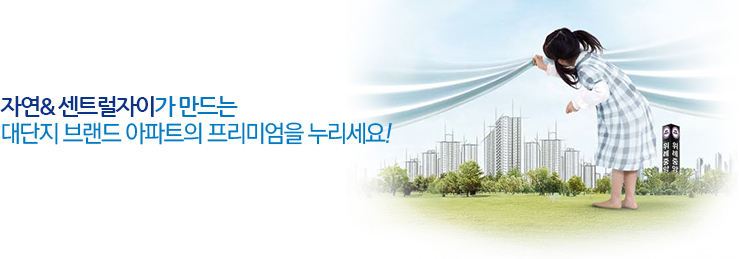
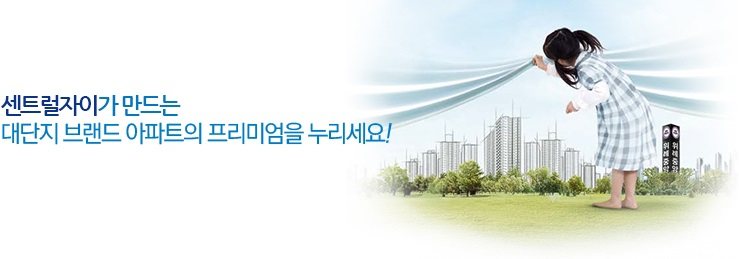
name changed

Changed region(s): [[0.0, 0.3707, 0.5291, 0.556]]

diff --git a/register/regist.html b/register/regist.html
@@ -7,11 +7,11 @@
 <script type="text/javascript" src="/js/design.js"></script>
 <link rel="stylesheet" type="text/css" href="/css/nanumgothic.css" media="all"/>
 <link rel="stylesheet" href="/css/common.css">
-<title>자연앤 센트럴자이</title>
+<title>센트럴자이</title>
 </head>
 <body>
 <div class="head">
-	<h1><a href="/index.html"><img src="/images/h1_wj_logo.gif" alt="자연앤 센트럴자이"/></a></h1>
+	<h1><a href="/index.html"><img src="/images/h1_wj_logo.gif" alt="센트럴자이"/></a></h1>
 	<div class="top_util">
 		<a href="/register/regist.html"><img src="/images/btn_top_reg.gif" alt="관심고객등록"/></a>
 		<img src="/images/top_contact.gif" alt="연락처"/>
@@ -107,7 +107,7 @@
 		</div><!-- end title -->
 		<div class="content">
 
-<!-- 자연& 센트럴자이 -->
+<!-- 센트럴자이 -->
 <script type="text/javascript">
 <!--
 //*********************************START ACTION**************************************
@@ -202,15 +202,15 @@ div.iframe_body {
 }
 </style>
 
-<h1 style="display: none;">자연앤</h1>
+<h1 style="display: none;">센트럴자이</h1>
 <h2 style="display: none;">관심고객등록</h2>
 <div class="regist">
 	<h3>개인정보취급방침</h3>
 	<div class="iframe_body">
 		<div class="summary">
 			<p>경기도시공사는 정보통신망 이용촉진 및 정보보호 등에 관한 법률, 개인정보보호법 등 준수하여야 할 관련 법규상의 개인정보보호 규정을 준수하며, 개인정보보호법 제30조, 정보통신망이용촉진 및 정보보호에 관한 법률 제27조의2에 따라 고객의 개인정보 보호 및 권익을 보호하고 개인정보와 관련한 고객의 고충을 원활하게 처리할 수 있도록 다음과 같은 처리방침을 제정하고 이를 준수하고 있습니다.</p>
-			<p>경기도시공사는 개인정보처리방침을 개정하는 경우 위례 자연앤 센트럴 자이 공지사항을 통하여 공지(또는 개별공지)할 것입니다.</p>
-			<p>고객님께서는 경기도시공사 위례 자연앤 센트럴 자이 홈페이지 방문 시 수시로 개인정보처리방침을 확인해 주시길 바랍니다.</p>
+			<p>경기도시공사는 개인정보처리방침을 개정하는 경우 위례 센트럴 자이 공지사항을 통하여 공지(또는 개별공지)할 것입니다.</p>
+			<p>고객님께서는 경기도시공사 위례 센트럴 자이 홈페이지 방문 시 수시로 개인정보처리방침을 확인해 주시길 바랍니다.</p>
 			<p>고객님은 개인정보의 수집, 이용, 제공, 위탁 등(이하 "처리"라 합니다.)과 관련한 아래 사항에 대하여 원하지 않는 경우 동의를 거부할 수 있습니다. 다만, 고객님이 동의를 거부하는 경우 서비스의 전부 또는 일부를 이용할 수 없음을 알려드립니다.</p>
 			<p>경기도시공사의 개인정보처리방침은 다음과 같은 내용을 담고 있습니다.</p>
 			<p>본 방침은 2012 년 1월 1일부터 시행됩니다.</p>
@@ -232,7 +232,7 @@ div.iframe_body {
 				<div class="indent">
 					<p>가. 회사는 회원가입, 원활한 고객상담, 각종 서비스의 제공을 위해 최초 회원가입 당시 아래와 같은 개인정보를 수집하고 있습니다.</p>
 					<dl>
-						<dt>1)위례 자연앤 센트럴 자이 관심고객 등록</dt>
+						<dt>1)위례 센트럴 자이 관심고객 등록</dt>
 						<dd>필수정보 : 성명, 휴대번호, 이메일계정, 주소 , 설문내용</dd>
 						<dt>2)분양 계약서 </dt>
 						<dd>필수정보 : 이름, 자택 전화번호, 휴대폰 전화번호, 주소, 주민등록번호, 계약 아파트명, 계약 아파트 동호수, 총 분양대금, 계약일, 분양대금 납부내역 등</dd>
@@ -372,7 +372,7 @@ div.iframe_body {
 		<input type="radio" name="hAGREE1" class="type-radio" value="N"/> 동의하지 않음
 	</div><!-- end agree_radio -->
 
-	<h3>관심고객이 되시면 위례자연앤센트럴자이 진행사항을 안내해 드립니다.</h3>
+	<h3>관심고객이 되시면 위례센트럴자이 진행사항을 안내해 드립니다.</h3>
 	<div class="reg_table">
 		<table summary="">
 		<caption></caption>
@@ -445,14 +445,14 @@ div.iframe_body {
 					<li><input type="radio" class="type-radio" name="Q_2" value="기타"/> 기타</li>
 				</ul>
 			</dd>
-			<dt>3. 위례 A2-2BL 자연앤 센트럴 자이의 청약자격은 "무주택 세대주"입니다. 귀하는 현재 무주택 세대주입니까?</dt>
+			<dt>3. 위례 A2-2BL 센트럴 자이의 청약자격은 "무주택 세대주"입니다. 귀하는 현재 무주택 세대주입니까?</dt>
 			<dd>
 				<ul>
 					<li><input type="radio" class="type-radio" name="Q_3" value="예"/> 예</li>
 					<li><input type="radio" class="type-radio" name="Q_3" value="아니요"/> 아니요</li>
 				</ul>
 			</dd>
-			<dt>4. 위례 A2-2BL 자연앤 센트럴 자이의 청약이 가능한 통장은 청약저축과 청약종합저축 입니다. 귀하가 보유하고 있는 통장의 종류는 무엇입니까?</dt>
+			<dt>4. 위례 A2-2BL 센트럴 자이의 청약이 가능한 통장은 청약저축과 청약종합저축 입니다. 귀하가 보유하고 있는 통장의 종류는 무엇입니까?</dt>
 			<dd>
 				<ul>
 					<li><input type="radio" class="type-radio" name="Q_4" value="청약저축"/> 청약저축</li>
@@ -493,7 +493,7 @@ div.iframe_body {
 					<li><input type="checkbox" class="type-radio" name="Q_7" value="84타입(구33평형)"/> 84타입(구33평형)</li>
 				</ul>
 			</dd>
-			<dt>8. 위례신도시 A2-2BL 자연앤센트럴자이 외 경기도시공사에서 분양하는 분양관련 정보를 핸드폰문자(SMS) 수신하는 것에 동의하십니까?</dt>
+			<dt>8. 위례신도시 A2-2BL 센트럴자이 외 경기도시공사에서 분양하는 분양관련 정보를 핸드폰문자(SMS) 수신하는 것에 동의하십니까?</dt>
 			<dd>
 				<ul>
 					<li><input type="radio" class="type-radio" name="Q_8" value="예"/> 예</li>

diff --git a/register/notice_list.html b/register/notice_list.html
@@ -7,11 +7,11 @@
 <script type="text/javascript" src="/js/design.js"></script>
 <link rel="stylesheet" type="text/css" href="/css/nanumgothic.css" media="all"/>
 <link rel="stylesheet" href="/css/common.css">
-<title>자연앤 센트럴자이</title>
+<title>센트럴자이</title>
 </head>
 <body>
 <div class="head">
-	<h1><a href="/index.html"><img src="/images/h1_wj_logo.gif" alt="자연앤 센트럴자이"/></a></h1>
+	<h1><a href="/index.html"><img src="/images/h1_wj_logo.gif" alt="센트럴자이"/></a></h1>
 	<div class="top_util">
 		<a href="/register/regist.html"><img src="/images/btn_top_reg.gif" alt="관심고객등록"/></a>
 		<img src="/images/top_contact.gif" alt="연락처"/>
@@ -107,7 +107,7 @@
 		</div><!-- end title -->
 		<div class="content">
 
-<!-- 자연& 센트럴자이 -->
+<!-- 센트럴자이 -->
 	<div class="notice_list">
 		<table summary="">
 		<caption></caption>
@@ -176,7 +176,7 @@
 
           <tr>
               <td class="num">3</td>
-              <td class="subj"><a title="상세보기">자연앤 센트럴 자이 당첨 하한선입니다.</a></td>
+              <td class="subj"><a title="상세보기">센트럴 자이 당첨 하한선입니다.</a></td>
               <td class="date">2014-11-25</td>
               <td class="count">1271</td>
           </tr>
@@ -187,7 +187,7 @@
 
           <tr>
               <td class="num">2</td>
-              <td class="subj"><a title="상세보기">자연앤 센트럴 자이 일반공급 경쟁률입니다.</a></td>
+              <td class="subj"><a title="상세보기">센트럴 자이 일반공급 경쟁률입니다.</a></td>
               <td class="date">2014-11-20</td>
               <td class="count">1534</td>
           </tr>
@@ -198,7 +198,7 @@
 
           <tr>
               <td class="num">1</td>
-              <td class="subj"><a title="상세보기">자연앤 센트럴 자이 특별공급 경쟁률입니다.</a></td>
+              <td class="subj"><a title="상세보기">센트럴 자이 특별공급 경쟁률입니다.</a></td>
               <td class="date">2014-11-20</td>
               <td class="count">508</td>
           </tr>

diff --git a/business/feature.html b/business/feature.html
@@ -7,11 +7,11 @@
 <script type="text/javascript" src="/js/design.js"></script>
 <link rel="stylesheet" type="text/css" href="/css/nanumgothic.css" media="all"/>
 <link rel="stylesheet" href="/css/common.css">
-<title>자연앤 센트럴자이</title>
+<title>센트럴자이</title>
 </head>
 <body>
 <div class="head">
-	<h1><a href="/index.html"><img src="/images/h1_wj_logo.gif" alt="자연앤 센트럴자이"/></a></h1>
+	<h1><a href="/index.html"><img src="/images/h1_wj_logo.gif" alt="센트럴자이"/></a></h1>
 	<div class="top_util">
 		<a href="/register/regist.html"><img src="/images/btn_top_reg.gif" alt="관심고객등록"/></a>
 		<img src="/images/top_contact.gif" alt="연락처"/>
@@ -106,8 +106,8 @@
 		</div><!-- end title -->
 		<div class="content">
 
-<!-- 자연& 센트럴자이 -->
-<p><img src="/images/wj_feature_img.jpg" alt="자연앤 센트럴자이의 뛰어난 제품가치, 1413세대 대단지 랜드마크 설계, 휴먼링 내 희소한 중소형 평면의 대단지 아파트로 살수록 큰 자부심을 선사합니다, 대규모의 커뮤니티 시설, 휘트니스클럽, 골프연습장, 게스트하우스, 사우나 등으로 풍요로운 여가를 누립니다, 넓은 주차구획선, 넓게 확보된 주차공간으로 편리한 주차는 물론 승하차도 여유로워집니다"/></p>
+<!-- 센트럴자이 -->
+<p><img src="/images/wj_feature_img.jpg" alt="센트럴자이의 뛰어난 제품가치, 1413세대 대단지 랜드마크 설계, 휴먼링 내 희소한 중소형 평면의 대단지 아파트로 살수록 큰 자부심을 선사합니다, 대규모의 커뮤니티 시설, 휘트니스클럽, 골프연습장, 게스트하우스, 사우나 등으로 풍요로운 여가를 누립니다, 넓은 주차구획선, 넓게 확보된 주차공간으로 편리한 주차는 물론 승하차도 여유로워집니다"/></p>
 
 		</div><!-- end content -->
 	</div><!-- end body -->

diff --git a/business/environment.html b/business/environment.html
@@ -7,11 +7,11 @@
 <script type="text/javascript" src="/js/design.js"></script>
 <link rel="stylesheet" type="text/css" href="/css/nanumgothic.css" media="all"/>
 <link rel="stylesheet" href="/css/common.css">
-<title>자연앤 센트럴자이</title>
+<title>센트럴자이</title>
 </head>
 <body>
 <div class="head">
-	<h1><a href="/index.html"><img src="/images/h1_wj_logo.gif" alt="자연앤 센트럴자이"/></a></h1>
+	<h1><a href="/index.html"><img src="/images/h1_wj_logo.gif" alt="센트럴자이"/></a></h1>
 	<div class="top_util">
 		<a href="/register/regist.html"><img src="/images/btn_top_reg.gif" alt="관심고객등록"/></a>
 		<img src="/images/top_contact.gif" alt="연락처"/>
@@ -106,8 +106,8 @@
 		</div><!-- end title -->
 		<div class="content">
 
-<!-- 자연& 센트럴자이 -->
-<p><img src="/images/wj_environment_img.jpg" alt="위례의 중심부터 강남생활권까지 자연앤에서 누리다, 위례중앙역으로 누리는 편리한 교통가치, 휴먼링 내에서 누리는 친환경 자연가치, 트랜짓모로가 인접한 다양한 생활가치, 단지 앞 초·중교가 예정된 교육가치"/></p>
+<!-- 센트럴자이 -->
+<p><img src="/images/wj_environment_img.jpg" alt="위례의 중심부터 강남생활권까지 자이에서 누리다, 위례중앙역으로 누리는 편리한 교통가치, 휴먼링 내에서 누리는 친환경 자연가치, 트랜짓모로가 인접한 다양한 생활가치, 단지 앞 초·중교가 예정된 교육가치"/></p>
 
 		</div><!-- end content -->
 	</div><!-- end body -->

diff --git a/business/map.html b/business/map.html
@@ -7,11 +7,11 @@
 <script type="text/javascript" src="/js/design.js"></script>
 <link rel="stylesheet" type="text/css" href="/css/nanumgothic.css" media="all"/>
 <link rel="stylesheet" href="/css/common.css">
-<title>자연앤 센트럴자이</title>
+<title>센트럴자이</title>
 </head>
 <body>
 <div class="head">
-	<h1><a href="/index.html"><img src="/images/h1_wj_logo.gif" alt="자연앤 센트럴자이"/></a></h1>
+	<h1><a href="/index.html"><img src="/images/h1_wj_logo.gif" alt="센트럴자이"/></a></h1>
 	<div class="top_util">
 		<a href="/register/regist.html"><img src="/images/btn_top_reg.gif" alt="관심고객등록"/></a>
 		<img src="/images/top_contact.gif" alt="연락처"/>
@@ -106,7 +106,7 @@
 		</div><!-- end title -->
 		<div class="content">
 
-<!-- 자연& 센트럴자이 -->
+<!-- 센트럴자이 -->
 <p><img src="/images/wj_map_img.jpg" alt="견본주택 안내, 주소 : 서울시 송파구 장지동 622-9 일원, 운영기간 : 2014.11.07(금)~2014.11.10(월) (10:00~17:00), 토, 일요일 및 공휴일 제외 (단, 신청자의 편의를 위해 14.11.08(토)~09(일)은 임시 운영함), 대중교통 안내, 지하철 이용 시, 분당선·8호선 복정역 1번 출구 150m, 버스 이용 시, 복정역 1번출구 정류장 (정류장 번호 : 24-305), 간선버스(파랑) : 302, 303, 320, 광역버스(빨강) : 1650, 9403, 경기권역 버스 : 15"/></p>
 
 		</div><!-- end content -->

diff --git a/business/overview.html b/business/overview.html
@@ -7,11 +7,11 @@
 <script type="text/javascript" src="/js/design.js"></script>
 <link rel="stylesheet" type="text/css" href="/css/nanumgothic.css" media="all"/>
 <link rel="stylesheet" href="/css/common.css">
-<title>자연앤 센트럴자이</title>
+<title>센트럴자이</title>
 </head>
 <body>
 <div class="head">
-	<h1><a href="/index.html"><img src="/images/h1_wj_logo.gif" alt="자연앤 센트럴자이"/></a></h1>
+	<h1><a href="/index.html"><img src="/images/h1_wj_logo.gif" alt="센트럴자이"/></a></h1>
 	<div class="top_util">
 		<a href="/register/regist.html"><img src="/images/btn_top_reg.gif" alt="관심고객등록"/></a>
 		<img src="/images/top_contact.gif" alt="연락처"/>
@@ -106,7 +106,7 @@
 		</div><!-- end title -->
 		<div class="content">
 
-<!-- 자연& 센트럴자이 -->
+<!-- 센트럴자이 -->
 <p><img src="/images/wj_overview_img.jpg" alt="휴먼링 내 마지막 공공분양, 메이저 브랜드, 중소형 대단지, 대지위치 위례신도시 택지개발지구 A2-2BL, 대지면적 68177㎡, 연면적 188515.69㎡, 건축규모 지하2층/지상15층(111동: 14층), 세대수 총 1413세대 (51㎡: 492세대, 59㎡A: 465세대, 59㎡B: 130세대, 74㎡: 116세대, 84㎡: 210세대)"/></p>
 
 		</div><!-- end content -->

diff --git a/register/alternate_winner.html b/register/alternate_winner.html
@@ -7,11 +7,11 @@
 <script type="text/javascript" src="/js/design.js"></script>
 <link rel="stylesheet" type="text/css" href="/css/nanumgothic.css" media="all"/>
 <link rel="stylesheet" href="/css/common.css">
-<title>자연앤 센트럴자이</title>
+<title>센트럴자이</title>
 </head>
 <body>
 <div class="head">
-	<h1><a href="/index.html"><img src="/images/h1_wj_logo.gif" alt="자연앤 센트럴자이"/></a></h1>
+	<h1><a href="/index.html"><img src="/images/h1_wj_logo.gif" alt="센트럴자이"/></a></h1>
 	<div class="top_util">
 		<a href="/register/regist.html"><img src="/images/btn_top_reg.gif" alt="관심고객등록"/></a>
 		<img src="/images/top_contact.gif" alt="연락처"/>
@@ -107,10 +107,10 @@
 		</div><!-- end title -->
 		<div class="content">
 
-<!-- 자연& 센트럴자이 -->
+<!-- 센트럴자이 -->
 <div class="alternative_winner">
 	<div class="document">
-		<h4>예비당첨자 공급(최초) 참가신청 및 서류제출 안내 (위례A2-2BL 자연앤센트럴자이)</h4>
+		<h4>예비당첨자 공급(최초) 참가신청 및 서류제출 안내 (위례A2-2BL 센트럴자이)</h4>
 		<h5>1. 예비당첨자 참가신청 및 동호배정(추첨) 안내</h5>
 		<div class="container">
 			<ul>

diff --git a/complex/eyeview.html b/complex/eyeview.html
@@ -7,11 +7,11 @@
 <script type="text/javascript" src="/js/design.js"></script>
 <link rel="stylesheet" type="text/css" href="/css/nanumgothic.css" media="all"/>
 <link rel="stylesheet" href="/css/common.css">
-<title>자연앤 센트럴자이</title>
+<title>센트럴자이</title>
 </head>
 <body>
 <div class="head">
-	<h1><a href="/index.html"><img src="/images/h1_wj_logo.gif" alt="자연앤 센트럴자이"/></a></h1>
+	<h1><a href="/index.html"><img src="/images/h1_wj_logo.gif" alt="센트럴자이"/></a></h1>
 	<div class="top_util">
 		<a href="/register/regist.html"><img src="/images/btn_top_reg.gif" alt="관심고객등록"/></a>
 		<img src="/images/top_contact.gif" alt="연락처"/>
@@ -104,7 +104,7 @@
 		</div><!-- end title -->
 		<div class="content">
 
-<!-- 자연& 센트럴자이 -->
+<!-- 센트럴자이 -->
 <div id="tab-container">
 	<div id="tabcon1" class="tabstyle"><img src="/images/wj_eyeview_img.jpg" style="width:740px;" alt="투시도"/></div>
 	<div id="tabcon2" class="tabstyle"><img src="/images/wj_eyeview_img2.jpg" style="width:740px;" alt="조감도"/></div>

diff --git a/sales/gonggo.html b/sales/gonggo.html
@@ -7,11 +7,11 @@
 <script type="text/javascript" src="/js/design.js"></script>
 <link rel="stylesheet" type="text/css" href="/css/nanumgothic.css" media="all"/>
 <link rel="stylesheet" href="/css/common.css">
-<title>자연앤 센트럴자이</title>
+<title>센트럴자이</title>
 </head>
 <body>
 <div class="head">
-	<h1><a href="/index.html"><img src="/images/h1_wj_logo.gif" alt="자연앤 센트럴자이"/></a></h1>
+	<h1><a href="/index.html"><img src="/images/h1_wj_logo.gif" alt="센트럴자이"/></a></h1>
 	<div class="top_util">
 		<a href="/register/regist.html"><img src="/images/btn_top_reg.gif" alt="관심고객등록"/></a>
 		<img src="/images/top_contact.gif" alt="연락처"/>
@@ -104,7 +104,7 @@
 		</div><!-- end title -->
 		<div class="content">
 
-<!-- 자연& 센트럴자이 -->
+<!-- 센트럴자이 -->
 <p><img src="/images/wj_gonggo_img.jpg" alt="" usemap="#link"/></p>
 <map name="link" id="link">
 	<area shape="rect" coords="90,408,291,454" href="/download/wj_gonggo.pdf" alt="" target="_blank"/>

diff --git a/register/press_list.html b/register/press_list.html
@@ -7,11 +7,11 @@
 <script type="text/javascript" src="/js/design.js"></script>
 <link rel="stylesheet" type="text/css" href="/css/nanumgothic.css" media="all"/>
 <link rel="stylesheet" href="/css/common.css">
-<title>자연앤 센트럴자이</title>
+<title>센트럴자이</title>
 </head>
 <body>
 <div class="head">
-	<h1><a href="/index.html"><img src="/images/h1_wj_logo.gif" alt="자연앤 센트럴자이"/></a></h1>
+	<h1><a href="/index.html"><img src="/images/h1_wj_logo.gif" alt="센트럴자이"/></a></h1>
 	<div class="top_util">
 		<a href="/register/regist.html"><img src="/images/btn_top_reg.gif" alt="관심고객등록"/></a>
 		<img src="/images/top_contact.gif" alt="연락처"/>
@@ -107,7 +107,7 @@
 		</div><!-- end title -->
 		<div class="content">
 
-<!-- 자연& 센트럴자이 -->
+<!-- 센트럴자이 -->
 	<p style="padding: 0 0 30px;"><img src="/images/wj_press_tip.gif" alt=""/></p>
 	<div class="board_list">
 		<table summary="">

diff --git a/complex/arrange.html b/complex/arrange.html
@@ -7,11 +7,11 @@
 <script type="text/javascript" src="/js/design.js"></script>
 <link rel="stylesheet" type="text/css" href="/css/nanumgothic.css" media="all"/>
 <link rel="stylesheet" href="/css/common.css">
-<title>자연앤 센트럴자이</title>
+<title>센트럴자이</title>
 </head>
 <body>
 <div class="head">
-	<h1><a href="/index.html"><img src="/images/h1_wj_logo.gif" alt="자연앤 센트럴자이"/></a></h1>
+	<h1><a href="/index.html"><img src="/images/h1_wj_logo.gif" alt="센트럴자이"/></a></h1>
 	<div class="top_util">
 		<a href="/register/regist.html"><img src="/images/btn_top_reg.gif" alt="관심고객등록"/></a>
 		<img src="/images/top_contact.gif" alt="연락처"/>
@@ -104,7 +104,7 @@
 		</div><!-- end title -->
 		<div class="content">
 
-<!-- 자연& 센트럴자이 -->
+<!-- 센트럴자이 -->
 <p><img src="/images/wj_arrange_img.jpg" alt=""/></p>
 <div id="tab-container">
 	<div class="tab" id="tab_arrange">

diff --git a/household/type2.html b/household/type2.html
@@ -7,11 +7,11 @@
 <script type="text/javascript" src="/js/design.js"></script>
 <link rel="stylesheet" type="text/css" href="/css/nanumgothic.css" media="all"/>
 <link rel="stylesheet" href="/css/common.css">
-<title>자연앤 센트럴자이</title>
+<title>센트럴자이</title>
 </head>
 <body>
 <div class="head">
-	<h1><a href="/index.html"><img src="/images/h1_wj_logo.gif" alt="자연앤 센트럴자이"/></a></h1>
+	<h1><a href="/index.html"><img src="/images/h1_wj_logo.gif" alt="센트럴자이"/></a></h1>
 	<div class="top_util">
 		<a href="/register/regist.html"><img src="/images/btn_top_reg.gif" alt="관심고객등록"/></a>
 		<img src="/images/top_contact.gif" alt="연락처"/>
@@ -107,7 +107,7 @@
 		</div><!-- end title -->
 		<div class="content">
 
-<!-- 자연& 센트럴자이 -->
+<!-- 센트럴자이 -->
 <div class="tab" id="tab_type">
 	<ul>
 		<li><a href="type.html" class="tab">51㎡</a></li>
